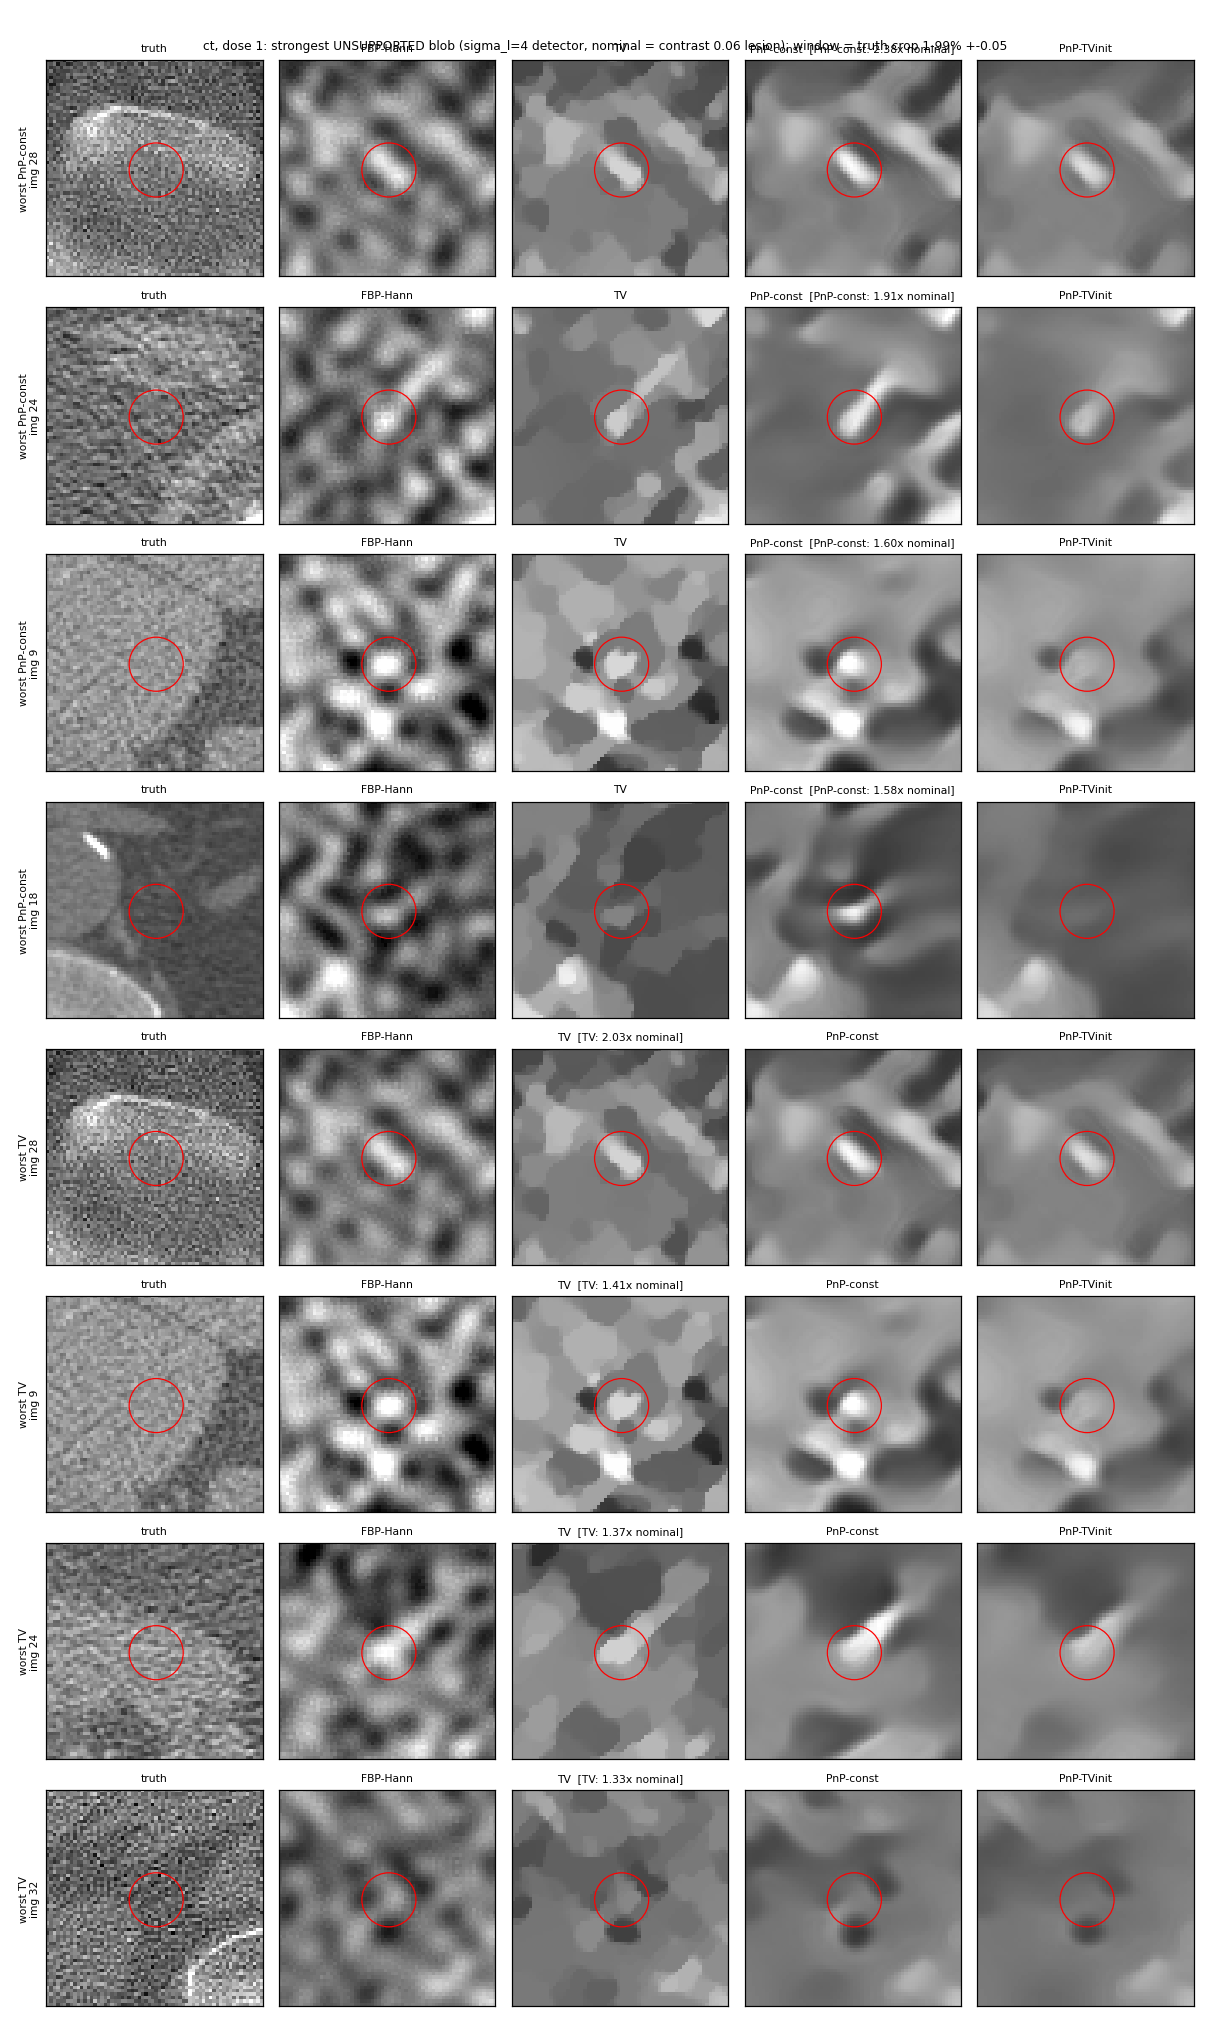
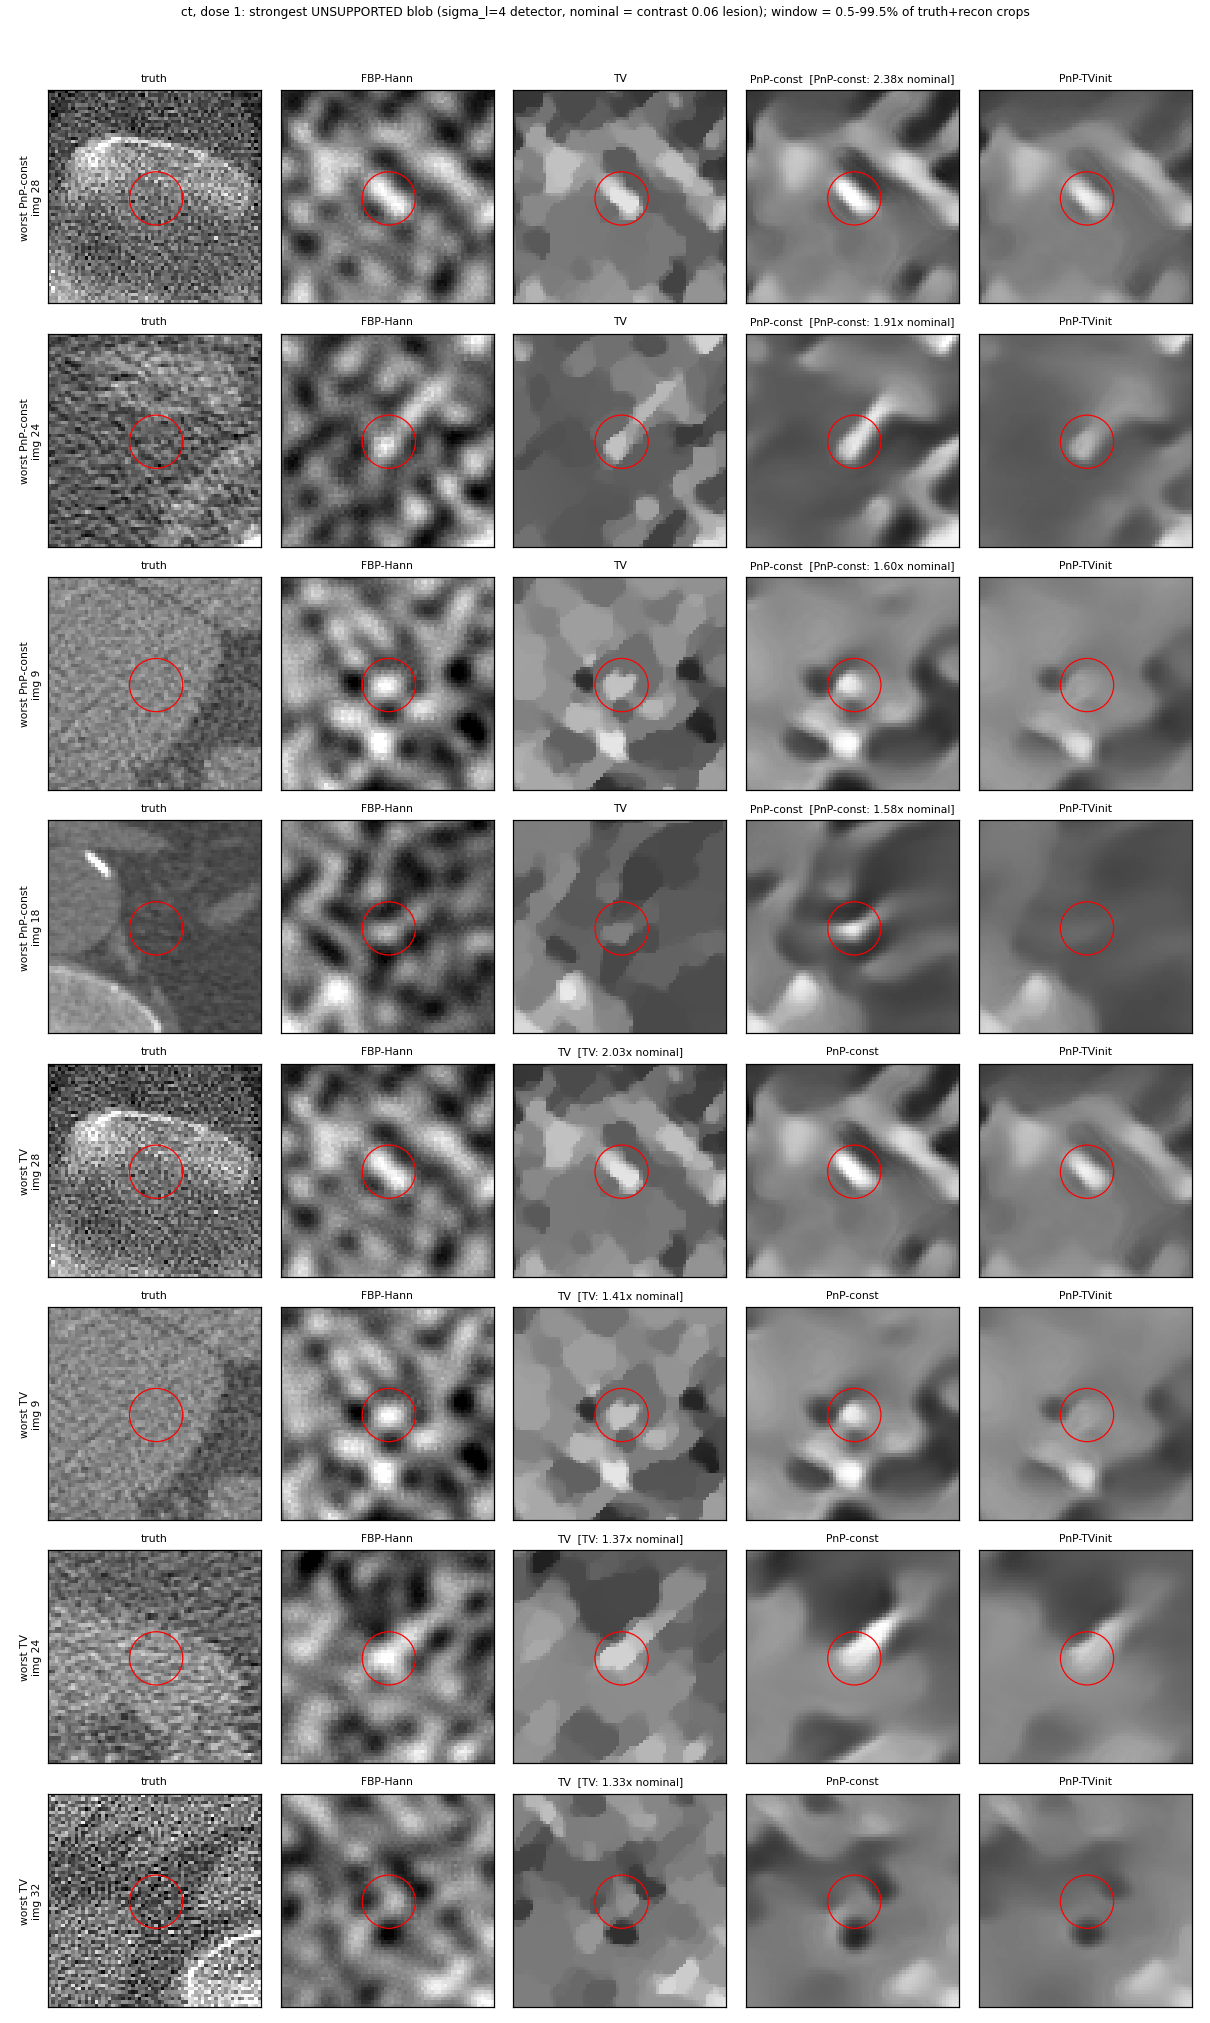
Enhance plotting and reporting in stage 3 scripts
- Adjusted the layout and title positioning in `run_stage3_step4b.py` for better visual clarity in generated plots.
- Updated the title in `run_stage3_step5_summary.py` to clarify the color coding of paired differences.
- Added new CSV output `e11_svd_check.csv` in the `results/control` directory to report on SVD checks comparing matrix-free and dense methods.
- Introduced `e19_k60_psnr_ci.csv` to store bootstrap confidence intervals for PSNR differences between methods in the E19 control analysis.
- Created `run_e11_svd_check.py` to automate the SVD comparison and error analysis.
- Developed `run_e19_k60_psnr_ci.py` for calculating and saving bootstrap intervals for PSNR differences across various methods.

diff --git a/run_e11_svd_check.py b/run_e11_svd_check.py
@@ -1,0 +1,52 @@
+"""E11 control: randomized SVD (matrix-free) versus the dense SVD, and the resulting strong/weak error split.
+
+Reports (i) the largest singular-value error of the top-k randomized SVD relative to s_1 (k = 400 and the k = 600 used by strong_basis),
+(ii) the dimension of the well-determined subspace {s_i/s_1 >= 0.05} from both, (iii) the largest principal angle between the two subspaces,
+(iv) the difference between the dense and matrix-free strong-subspace error of real reconstructions (Tikhonov, TV-ADMM, PnP k=25 on the same
+200 noisy test images as run_stage2.py --exp equiv), as a fraction of ||e||.
+Usage (repository root):  python run_e11_svd_check.py        Output: results/control/e11_svd_check.csv
+"""
+import os, numpy as np, pandas as pd, torch
+from src.operators import RadonOperator, add_noise
+from src.radon_mf import MatrixFreeRadon
+from src.finegrid import make_simulator
+from src.mf_solvers import MFTikhonov, MFTVADMM, randomized_svd, strong_basis, error_split
+from src.baselines import Tikhonov, TVADMM
+from src.nullspace import OperatorSubspaces
+from src.pnp import pnp_pgd
+from src.denoiser import load_denoiser
+from src.data import load_mnist
+
+dev = "cuda" if torch.cuda.is_available() else "cpu"
+D = RadonOperator(28, 20, device=dev); M = MatrixFreeRadon(28, 20, device=dev)
+sub = OperatorSubspaces(D.A)
+s_ref = torch.linalg.svdvals(D.A)
+rows = []
+for k in (400, 600):
+    s, _ = randomized_svd(M, k=k, seed=0)
+    err = ((s - s_ref[:k]).abs().max() / s_ref[0]).item()
+    rows.append(dict(item=f"max |s_i - s_i(dense)| / s_1, first {k}", value=err))
+Vs = strong_basis(M, 0.05)
+rows.append(dict(item="dim strong subspace, matrix-free", value=Vs.shape[1]))
+rows.append(dict(item="dim strong subspace, dense", value=784 - sub.dim(0.05)))
+# principal angles between the strong subspaces: strong basis of the dense SVD
+U, S, Vh = torch.linalg.svd(D.A, full_matrices=True)
+Vd = Vh.T[:, : int((S / S[0] >= 0.05).sum())]
+cosines = torch.linalg.svdvals(Vd.T @ Vs)
+rows.append(dict(item="largest principal angle between strong subspaces (sin)", value=float(torch.sqrt((1 - cosines.min() ** 2).clamp_min(0)))))
+# error split of real reconstructions
+_, _, test = load_mnist(); x = test[:200].to(dev)
+sim = make_simulator(M, 5, "bicubic"); y = add_noise(sim(x), 0.05, seed=1)
+den = load_denoiser("results/dncnn.pt", dev)
+recs = {"Tikhonov": MFTikhonov(M, 400, 1e-7)(y, 1e-2), "TV-ADMM": MFTVADMM(M)(y, 1e-2),
+        "PnP(k=25)": pnp_pgd(M, y, den, 0.1, 1 / M.lipschitz(), (25,))[0][25]}
+for name, xr in recs.items():
+    tot, st, _ = error_split(Vs, xr, x)
+    e = xr - x
+    st_dense = (e @ Vd).norm(dim=1)
+    d = ((st - st_dense).abs() / tot)
+    rows.append(dict(item=f"strong-error difference / ||e||, {name}: max over images", value=d.max().item()))
+    rows.append(dict(item=f"strong-error difference / ||e||, {name}: mean", value=d.mean().item()))
+    rows.append(dict(item=f"strong share of error energy, {name} (dense)", value=((st_dense**2).sum() / (tot**2).sum()).item()))
+df = pd.DataFrame(rows); os.makedirs("results/control", exist_ok=True)
+df.to_csv("results/control/e11_svd_check.csv", index=False); print(df.to_string(index=False))

diff --git a/run_e19_k60_psnr_ci.py b/run_e19_k60_psnr_ci.py
@@ -1,0 +1,14 @@
+"""E19 control: bootstrap interval for the K=60 PSNR difference PnP-const - TV-long on the 20 shape phantoms (Table tab:shift3a, K=60 rows, which has none).
+Reads the per-phantom PSNR stored by run_stage3_step4.py (results/stage3/s4c/step4_shapes_dose{1,0.25}.npz; SSIM was not stored for K=60).
+Percentile bootstrap over phantoms, 5000 resamples, as in the other Stage 3 tables.
+Usage (repository root):  python run_e19_k60_psnr_ci.py        Output: results/control/e19_k60_psnr_ci.csv"""
+import os, numpy as np, pandas as pd
+rng = np.random.default_rng(0); rows = []
+for dose in ("1", "0.25"):
+    d = np.load(f"results/stage3/s4c/step4_shapes_dose{dose}.npz", allow_pickle=True)
+    for a, b in (("PnP-const", "TV-long"), ("PnP-const", "TV"), ("PnP-const", "FBP-Hann")):
+        x = d[f"psnr|{a}"].astype(float) - d[f"psnr|{b}"].astype(float); n = len(x)
+        bs = np.array([x[rng.integers(0, n, n)].mean() for _ in range(5000)])
+        rows.append(dict(K=60, dose=float(dose), a=a, b=b, n=n, diff=x.mean(), lo=np.percentile(bs, 2.5), hi=np.percentile(bs, 97.5)))
+df = pd.DataFrame(rows); os.makedirs("results/control", exist_ok=True)
+df.to_csv("results/control/e19_k60_psnr_ci.csv", index=False); print(df.round(3).to_string(index=False))

diff --git a/run_stage3_step4b.py b/run_stage3_step4b.py
@@ -150,8 +150,8 @@ for f in fl(a.doses):
                     ax.add_patch(plt.Circle((cx - x0, cy - y0), 8, fill=False, color="r", lw=0.8))
                     ax.set_title(lab if row % a.n_gal == 0 and False else (f"{lab}" + (f"  [{who}: {val:.2f}x nominal]" if lab == who else "")), fontsize=7)
                 axs[row, 0].set_ylabel(f"worst {who}\nimg {img}", fontsize=7)
-        fig.suptitle(f"{name}, dose {f:g}: strongest UNSUPPORTED blob (sigma_l=4 detector, nominal = contrast 0.06 lesion); window = 0.5-99.5% of truth+recon crops", fontsize=8)
-        fig.tight_layout(); fig.savefig(f"{a.out}/step4b_gallery_{name}_dose{f:g}.png", dpi=110); plt.close(fig)
+        fig.suptitle(f"{name}, dose {f:g}: strongest UNSUPPORTED blob (sigma_l=4 detector, nominal = contrast 0.06 lesion); window = 0.5-99.5% of truth+recon crops", fontsize=8, y=0.997)
+        fig.tight_layout(rect=[0, 0, 1, 0.985]); fig.savefig(f"{a.out}/step4b_gallery_{name}_dose{f:g}.png", dpi=110); plt.close(fig)
         # consistency check against step 4 (m = 0.5 must reproduce its false-lesion counts)
         fn = f"{a.out}/step4_{name}_dose{f:g}.npz"
         if os.path.exists(fn):

diff --git a/run_stage3_step5_summary.py b/run_stage3_step5_summary.py
@@ -75,6 +75,6 @@ for ax, (met, A, B, unit) in zip(axs, panels):
     ax.set_title(f"{met}: {A} - {B} {unit}", fontsize=9)
 for ax in axs[len(panels):]:
     ax.axis("off")
-fig.suptitle("Paired differences by condition (* = 95% interval over patients excludes 0; red = first method higher)", fontsize=10)
+fig.suptitle("Paired differences by condition (* = 95% interval over patients excludes 0; blue = first method higher)", fontsize=10)
 fig.tight_layout(); fig.savefig(f"{a.dir}/step5_grid.png", dpi=120)
 print(f"\nwrote {a.dir}/step5_means.csv, step5_paired.csv, step5_grid.png")
